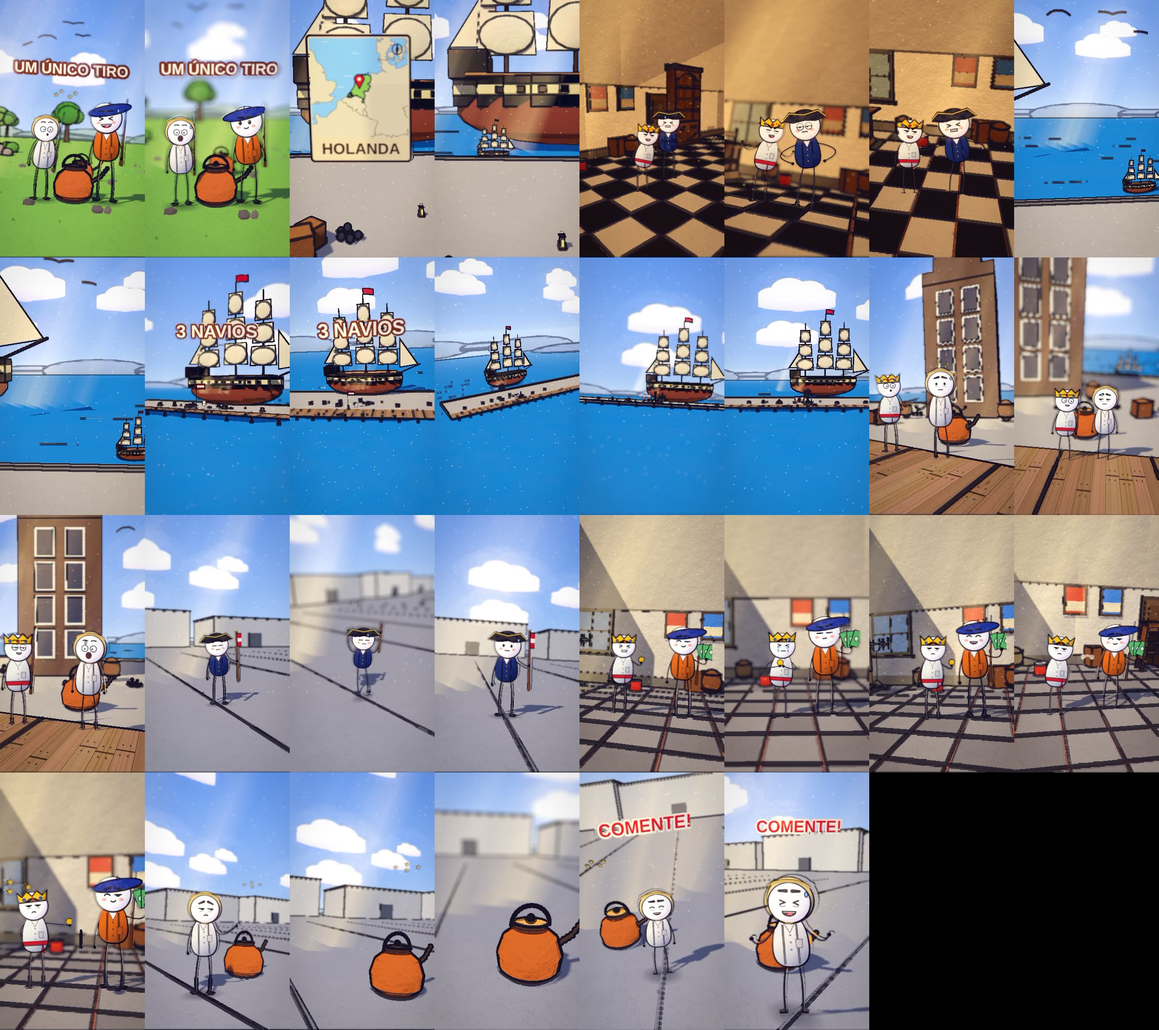
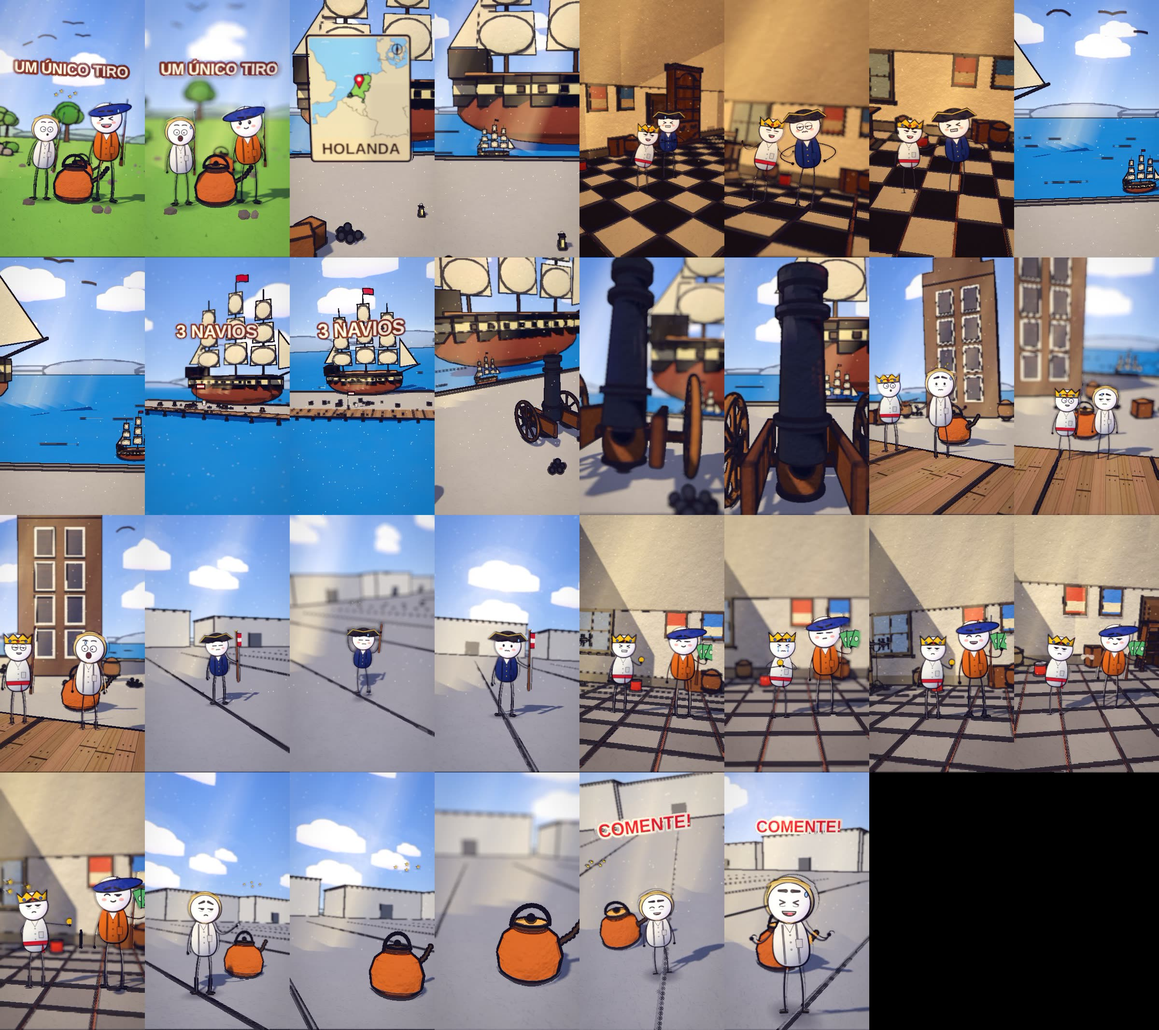
chaleira1784: storyboard aprovado, render
Claude-Session: https://claude.ai/code/session_01HE8Dy2wiQov2uhW6ZYikBX

Changed region(s): [[0.375, 0.2477, 0.75, 0.5263]]

diff --git a/ferramenta-shorts/web/story.js b/ferramenta-shorts/web/story.js
@@ -41,7 +41,7 @@ const SPEC = {
     S('b2', A[2], A[3] - 1, X_hall, "study", { h: 2.3, d0: 9.8, d1: 8.8, az0: -10, az1: -5, hero: { hero: 'any', frame: 'medium', minH: 0.07, main: 2 }, trans: 'dissolve', actors: [pp(X_hall, "IMP", 0, -1.0, 1.3, "angry", { pose: 'argue', inter: { k: 'lunge', a: Math.round(A[2] + (A[3] - 1 - (A[2])) * 0.12), b: Math.round(A[2] + (A[3] - 1 - (A[2])) * 0.82), dir: 1, n: 2, ph: 0 } }), pp(X_hall, "GEN", 0, 1.0, 1.0, "nervous", { pose: 'argue', inter: { k: 'lunge', a: Math.round(A[2] + (A[3] - 1 - (A[2])) * 0.2), b: Math.round(A[2] + (A[3] - 1 - (A[2])) * 0.9), dir: -1, n: 2, ph: 3.14 } })], props: [{ asset: "kit/room_holanda_stone", at: [X_hall, 0], s: 1, drop: false }, { asset: "mk/Bookcase_2", at: [X_hall + 7.4, -3.4], s: 2.4, drop: false }, { asset: "mk/Table_Large", at: [X_hall + -6.6, -1.6], s: 2.2, drop: false }, { asset: "mk/Chair_1", at: [X_hall + -4.4, -1.2], s: 2.2, drop: false }, { asset: "mk/Chest_Wood", at: [X_hall + 6.9, 0.6], s: 2.2, drop: false }] }),
     { ...S('b3', A[3], A[4] - 1, X, "day", { h: 6, d0: 30, d1: 27, el: 5, fov: 46, cx: -2, cz: -24, hero: { hero: 'none', wide: true }, vary: false, nocut: true, trans: 'dissolve', actors: [pp(X, "IMP", 0, 0.0, -0.4, "shout")], props: [{ asset: "kit/navio_fragata", at: [X + -30, -44], s: 7.06, drop: false }], fx: [{ k: 'birds', a: A[3], b: A[4] - 1, at: [X, DK + 4.5, -30], n: 4, dir: -1, off: 15 }] }), nocut: true },
     S('b4', A[4], A[5] - 1, X, "day", { h: 6.0, d0: 102.3, d1: 97.4, az0: 16, az1: 30, cx: 0.0, cz: -8.2, vary: false, hero: { hero: 'any', frame: 'medium', minH: 0.07, main: 1 }, trans: 'dissolve', actors: [_MA(pp(X, "IMP", 0, 0.0, 1.3, "smug", { over: { hold: "flag" } }), { gests: [[WS(63) - 8, Math.max(WS(63) + 14, WS(69) - 5), 'lift'], [WS(69) - 8, WS(69) + 46, 'point']] })], props: [{ asset: "kit/navio_fragata", at: [X + 0.0, -18.2], s: 7.06, fixo: true, drop: false }, { asset: "war/flagpole", at: [X + -3.1, 0.2], s: 1.3 }], fx: [{ k: 'birds', a: A[4], b: A[5] - 1, at: [X, DK + 6.0, -30], n: 5, dir: 1, off: 8 }, txt(X, WS(61, -2), A[5] - 1, "3 NAVIOS", '#fff6e0', '#7a3a1c', 4.7, { s: 1.5, up: 0.42 })] }),
-    S('b5', A[5], A[6] - 1, X, "day", { h: 6.0, d0: 123.4, d1: 117.5, az0: -14, az1: 4, cx: 0.0, cz: -8.2, punches: [{ f: WS(83), amt: 0.16, dur: 20 }], vary: false, hero: { hero: 'any', frame: 'medium', minH: 0.07, main: 2 }, trans: 'dissolve', shots: [WS(83)], actors: [_MA(_MA(pp(X, "MAR", 0, -1.0, 1.3, "stern", { pose: 'talk', inter: { k: 'lunge', a: Math.round(A[5] + (A[6] - 1 - (A[5])) * 0.12), b: Math.round(A[5] + (A[6] - 1 - (A[5])) * 0.82), dir: 1, n: 2, ph: 0 } }), { over: { rifle: true } }), { gests: [[WS(81) - 8, Math.max(WS(81) + 14, WS(83) - 5), 'cross']] }), pp(X, "MAR", 1, 1.0, 1.0, "angry", { pose: 'talk', inter: { k: 'nod', a: Math.round(A[5] + (A[6] - 1 - (A[5])) * 0.2), b: Math.round(A[5] + (A[6] - 1 - (A[5])) * 0.9), dir: -1, n: 2, ph: 3.14 } })], props: [{ asset: "cannon", at: [X + 3.0, 0.6], s: 2.2 }, { asset: "kit/navio_fragata", at: [X + 12, -32], s: 7.06, drop: false }], fx: [{ k: 'burst', a: A[5] + 60, at: [X + -1.0, DK + 1.8, 3.2], s: 1.2 }, { k: 'flash', a: WS(83), b: WS(83) + 10, at: [X + 0.55, DK - 0.55, 1.7], s: 1.6 }] }),
+    S('b5', A[5], A[6] - 1, X, "day", { h: 2.2, d0: 16, d1: 12, az0: -14, az1: 4, cx: 0, cz: -12, punches: [{ f: WS(83), amt: 0.16, dur: 20 }], vary: false, hero: { hero: 'any', frame: 'medium', minH: 0.07, main: 2 }, trans: 'dissolve', shots: [WS(83)], actors: [_MA(_MA(pp(X, "MAR", 0, -1.0, 1.3, "stern", { pose: 'talk', inter: { k: 'lunge', a: Math.round(A[5] + (A[6] - 1 - (A[5])) * 0.12), b: Math.round(A[5] + (A[6] - 1 - (A[5])) * 0.82), dir: 1, n: 2, ph: 0 } }), { over: { rifle: true } }), { gests: [[WS(81) - 8, Math.max(WS(81) + 14, WS(83) - 5), 'cross']] }), pp(X, "MAR", 1, 1.0, 1.0, "angry", { pose: 'talk', inter: { k: 'nod', a: Math.round(A[5] + (A[6] - 1 - (A[5])) * 0.2), b: Math.round(A[5] + (A[6] - 1 - (A[5])) * 0.9), dir: -1, n: 2, ph: 3.14 } })], props: [{ asset: "cannon", at: [X + 0.0, -7.0], s: 2.6 }, { asset: "kit/navio_fragata", at: [X + 14, -34], s: 7.06, drop: false }], fx: [{ k: 'burst', a: A[5] + 60, at: [X + -1.0, DK + 1.8, 3.2], s: 1.2 }, { k: 'flash', a: WS(83), b: WS(83) + 10, at: [X + 0.55, DK - 0.55, 1.7], s: 1.6 }] }),
     S('b6', A[6], A[7] - 1, X, "day", { h: 2.3, d0: 12.1, d1: 11.5, az0: 24, az1: 10, cx: 0.0, cz: -0.6, punches: [{ f: WS(88), amt: 0.16, dur: 20 }], vary: false, hero: { hero: 'any', frame: 'medium', minH: 0.07, main: 2 }, trans: 'dissolve', shots: [WS(88)], actors: [_MA(pp(X, "IMP", 0, -1.0, 1.3, "surprised", { pose: 'talk', inter: { k: 'step', a: Math.round(A[6] + (A[7] - 1 - (A[6])) * 0.12), b: Math.round(A[6] + (A[7] - 1 - (A[6])) * 0.82), dir: 1, n: 2, ph: 0 } }), { over: { rifle: true } }), pp(X, "COZ", 0, 1.0, 1.0, "scared", { pose: 'talk', inter: { k: 'nod', a: Math.round(A[6] + (A[7] - 1 - (A[6])) * 0.2), b: Math.round(A[6] + (A[7] - 1 - (A[6])) * 0.9), dir: -1, n: 2, ph: 3.14 } })], props: [{ asset: "buildings/shop", at: [X + -4.8, -11.0], s: 1.05, ry: 0.35, drop: false }, { asset: "kit/kettle", at: [X + 0.0, -1.2], s: 1.2, fixo: true, drop: false }], fx: [{ k: 'stars', a: A[6] + 6, b: A[6] + 40, at: [X + 0.0, DK + 1.6, -0.7], s: 0.8 }, { k: 'birds', a: A[6], b: A[7] - 1, at: [X, DK + 4.5, -30], n: 4, dir: -1, off: 8 }, { k: 'burst', a: A[6] + 20, at: [X + -1.0, DK + 1.8, 3.2], s: 1.2 }, { k: "puff", a: A[6] + 26, b: A[6] + 52, at: [X + 0.9, DK + 0.12, 1.0], s: 0.75 }, { k: 'burst', a: WS(88), b: WS(88) + 22, at: [X + -1.0, DK + 1.8, 3.0], s: 1.2 }, { k: 'flash', a: WS(88), b: WS(88) + 10, at: [X + 0.55, DK - 0.55, 1.7], s: 1.6 }] }),
     S('b7', A[7], A[8] - 1, X_loc_patio, "day", { h: 2.5, d0: 11.4, d1: 10.2, az0: -32, az1: -18, vary: false, hero: { hero: 'any', frame: 'medium', minH: 0.07, main: 1 }, trans: 'dissolve', actors: [_MA(pp(X_loc_patio, "GEN", 0, 0.0, 1.3, "scared", { over: { hold: "flag" } }), { gests: [[WS(106) - 8, WS(106) + 46, 'up']] })], fx: [{ k: 'stars', a: WS(106) + 4, b: WS(106) + 34, at: [X_loc_patio + 0.0, DK + 3.0, 1.3], s: 0.6 }] }),
     S('b8', A[8], A[9] - 1, X_hall, "day", { h: 2.3, d0: 9.8, d1: 8.8, az0: -2, az1: 3, punches: [{ f: WS(132), amt: 0.11, dur: 20 }], vary: false, hero: { hero: 'any', frame: 'medium', minH: 0.07, main: 2 }, trans: 'dissolve', actors: [_MA(_MA(pp(X_hall, "IMP", 0, -1.0, 1.3, "sad", { over: { hold: "coin" }, inter: { k: 'step', a: Math.round(A[8] + (A[9] - 1 - (A[8])) * 0.12), b: Math.round(A[8] + (A[9] - 1 - (A[8])) * 0.82), dir: 1, n: 2, ph: 0 } }), { gests: [[WS(132) - 8, Math.max(WS(132) + 14, WS(136) - 5), 'push'], [WS(136) - 8, WS(136) + 46, 'reach']] }), { inters: [{ k: 'shove', a: WS(132) - 10, b: WS(132) + 24, dir: 1, n: 1, ph: 0 }] }), _MA(pp(X_hall, "HOL", 0, 1.0, 1.0, "smug", { over: { hold: "money" }, inter: { k: 'nod', a: Math.round(A[8] + (A[9] - 1 - (A[8])) * 0.2), b: Math.round(A[8] + (A[9] - 1 - (A[8])) * 0.9), dir: -1, n: 2, ph: 3.14 } }), { inters: [{ k: 'stagger', a: WS(132) - 6, b: WS(132) + 32, dir: 1, n: 1, ph: 0 }] })], props: [{ asset: "kit/room_europa_stone", at: [X_hall, 0], s: 1, drop: false }, { asset: "mk/Cabinet", at: [X_hall + -7.2, -3.3], s: 2.3, drop: false }, { asset: "mk/Bed_Twin1", at: [X_hall + 7.0, -2.4], s: 2.1, drop: false }, { asset: "mk/Nightstand_Shelf", at: [X_hall + 4.6, -3.2], s: 2.2, drop: false }, { asset: "mk/CandleStick_Stand", at: [X_hall + -4.8, -2.8], s: 2.2, drop: false }, { asset: "mk/Barrel", at: [X_hall + -7.4, 0.8], s: 2.0, drop: false }, { asset: 'kit/coin', a: WS(136) - 2, b: WS(136) + 50, at: [X_hall + 0.25, 1.9], y: (f) => DK + 1.5 + 0.25 * Math.sin(f * 0.2), spinY: 2, s: 0.35, drop: false }], fx: [{ k: "stars", a: WS(136), b: WS(136) + 28, at: [X_hall + -1.0, DK + 0.5, 2.5], s: 1.1 }, { k: 'puff', a: WS(132), b: WS(132) + 20, at: [X_hall + 0.0, DK + 1.8, 1.7], s: 0.9 }] }),

diff --git a/ferramenta-shorts/stories/chaleira1784/revisao_storyboard.md b/ferramenta-shorts/stories/chaleira1784/revisao_storyboard.md
@@ -1,0 +1,12 @@
+pesquisa: a gravura de 1784 do Rijksmuseum (Kettle War) mostra a escuna holandesa Dolfijn atirando no brigue imperial Le Louis, os dois a vela, no rio Escalda; comparei com fragata a vela de casco marrom e velas claras, canhao de ferro de rodas de madeira, marinheiros holandeses de casaca laranja e calca azul, imperador de coroa e faixa vermelha, bandeira vermelha e branca do imperio e chaleira de ferro de sopa; os prints de bandeira do Brasil, submarino, golfinho e medalha foram descartados.
+defeitos procurados: cenario porto e mar sem predio de cidade moderna e marco de Viena desligado; epoca 1784 sem navio a vapor nem submarino; tamanho navio grande ao fundo e canhao grande na frente; cortado os dois ultimos personagens cortados foram retirados; multidao sem clones e sem soldados caidos porque a guerra teve um unico tiro; legenda texto UM UNICO TIRO e 3 NAVIOS no alto longe da legenda; acao o tiro aparece como canhao em primeiro plano e a chaleira aparece com o imperador e o cozinheiro; objeto heroi chaleira aparece em b0 b6 e b9.
+b0: CORRIGIDO - uma guerra inteira teve um unico tiro e ele acertou uma chaleira de sopa: cozinheiro e marinheiro holandes com a chaleira laranja grande e o texto UM UNICO TIRO.
+b1: CORRIGIDO - foi em mil setecentos e oitenta e quatro e a Holanda mantinha o rio Escalda fechado: antes soldados caidos e cavalos e navio sobre a grama; agora fragata no porto com mapa da HOLANDA.
+b2: OK - o imperador Jose Segundo da Austria queria o rio aberto para os navios de Antuerpia: imperador de coroa e general na sala de pedra.
+b3: CORRIGIDO - convencido de que os holandeses nao reagiriam ele mandou tres navios descerem o rio: antes sala fechada sem navio; agora fragata a vela no rio diante do cais com o imperador, mostrando so um navio por vez.
+b4: CORRIGIDO - o maior levava a bandeira do imperador e seguia na frente: antes dois bonecos cortados; agora imperador no cais com a bandeira e o casco grande atras com o texto 3 NAVIOS.
+b5: CORRIGIDO - o navio de guerra holandes Dolfijn estava esperando e disparou um unico tiro: antes so um navio longe sem canhao; agora canhao de ferro em primeiro plano apontando para o navio.
+b6: OK - a bala acertou e destruiu uma chaleira de sopa no convés do navio do imperador: imperador e cozinheiro no cais com a chaleira laranja ao lado.
+b7: OK - o navio austriaco se rendeu na hora: oficial com bandeira branca e vermelha no patio, sem tiro.
+b8: OK - depois a Franca mediou a paz e a Holanda pagou uma indenizacao: imperador e marinheiro holandes com dinheiro na sala de pedra de dia.
+b9: OK - o unico prejuizo do dia foi o almoco: cozinheiro triste ao lado da chaleira grande e depois o texto COMENTE.

diff --git a/ferramenta-shorts/stories/chaleira1784/cronograma.md b/ferramenta-shorts/stories/chaleira1784/cronograma.md
@@ -1,6 +1,6 @@
 # CRONOGRAMA - Guerras Inusitadas EP 10 - A Guerra da Chaleira
 
-Gerado em 24/11 16:48 | 11 cenas | metricas: acoes_encenadas 100%, acoes_chave_com_efeito 100%, explicacoes_cobertas 100%, cenario_e_epoca_ok 100%
+Gerado em 24/11 16:49 | 11 cenas | metricas: acoes_encenadas 100%, acoes_chave_com_efeito 100%, explicacoes_cobertas 100%, cenario_e_epoca_ok 100%
 
 ## 1. Plano de cenas (o que cada frase vai mostrar)
 
@@ -30,7 +30,7 @@ N | Etapa | O que confere | Estado | Proximo passo
 6 | Estilo e enquadramento | autoajuste de luz/cor e ajuste de camera de cada tomada | REFAZER (a etapa anterior mudou) | 
 7 | Gates | camera OK, todas as tomadas OK, estilo OK | REFAZER (a etapa anterior mudou) | 
 8 | Storyboard e grade de acoes | video inteiro em quadros + 1 quadro no instante de cada acao | REFAZER (a etapa anterior mudou) | 
-9 | Revisao escrita e aprovacao | uma linha por frase conferindo com a folha 3 e com o quadro da pesquisa | BLOQUEADO (etapa anterior pendente) | ./aprovar_storyboard.sh chaleira1784
+9 | Revisao escrita e aprovacao | uma linha por frase conferindo com a folha 3 e com o quadro da pesquisa | REFAZER (a etapa anterior mudou) | ./aprovar_storyboard.sh chaleira1784
 10 | Render | todos os quadros renderizados nesta versao das folhas | BLOQUEADO (etapa anterior pendente) | 
 11 | Montagem e som | trechos + voz + musica + efeitos; volume normalizado | BLOQUEADO (etapa anterior pendente) | 
 12 | Conferencia | conferir.sh sem falha e folha de contato olhada | BLOQUEADO (etapa anterior pendente) | ./conferir.sh chaleira1784
